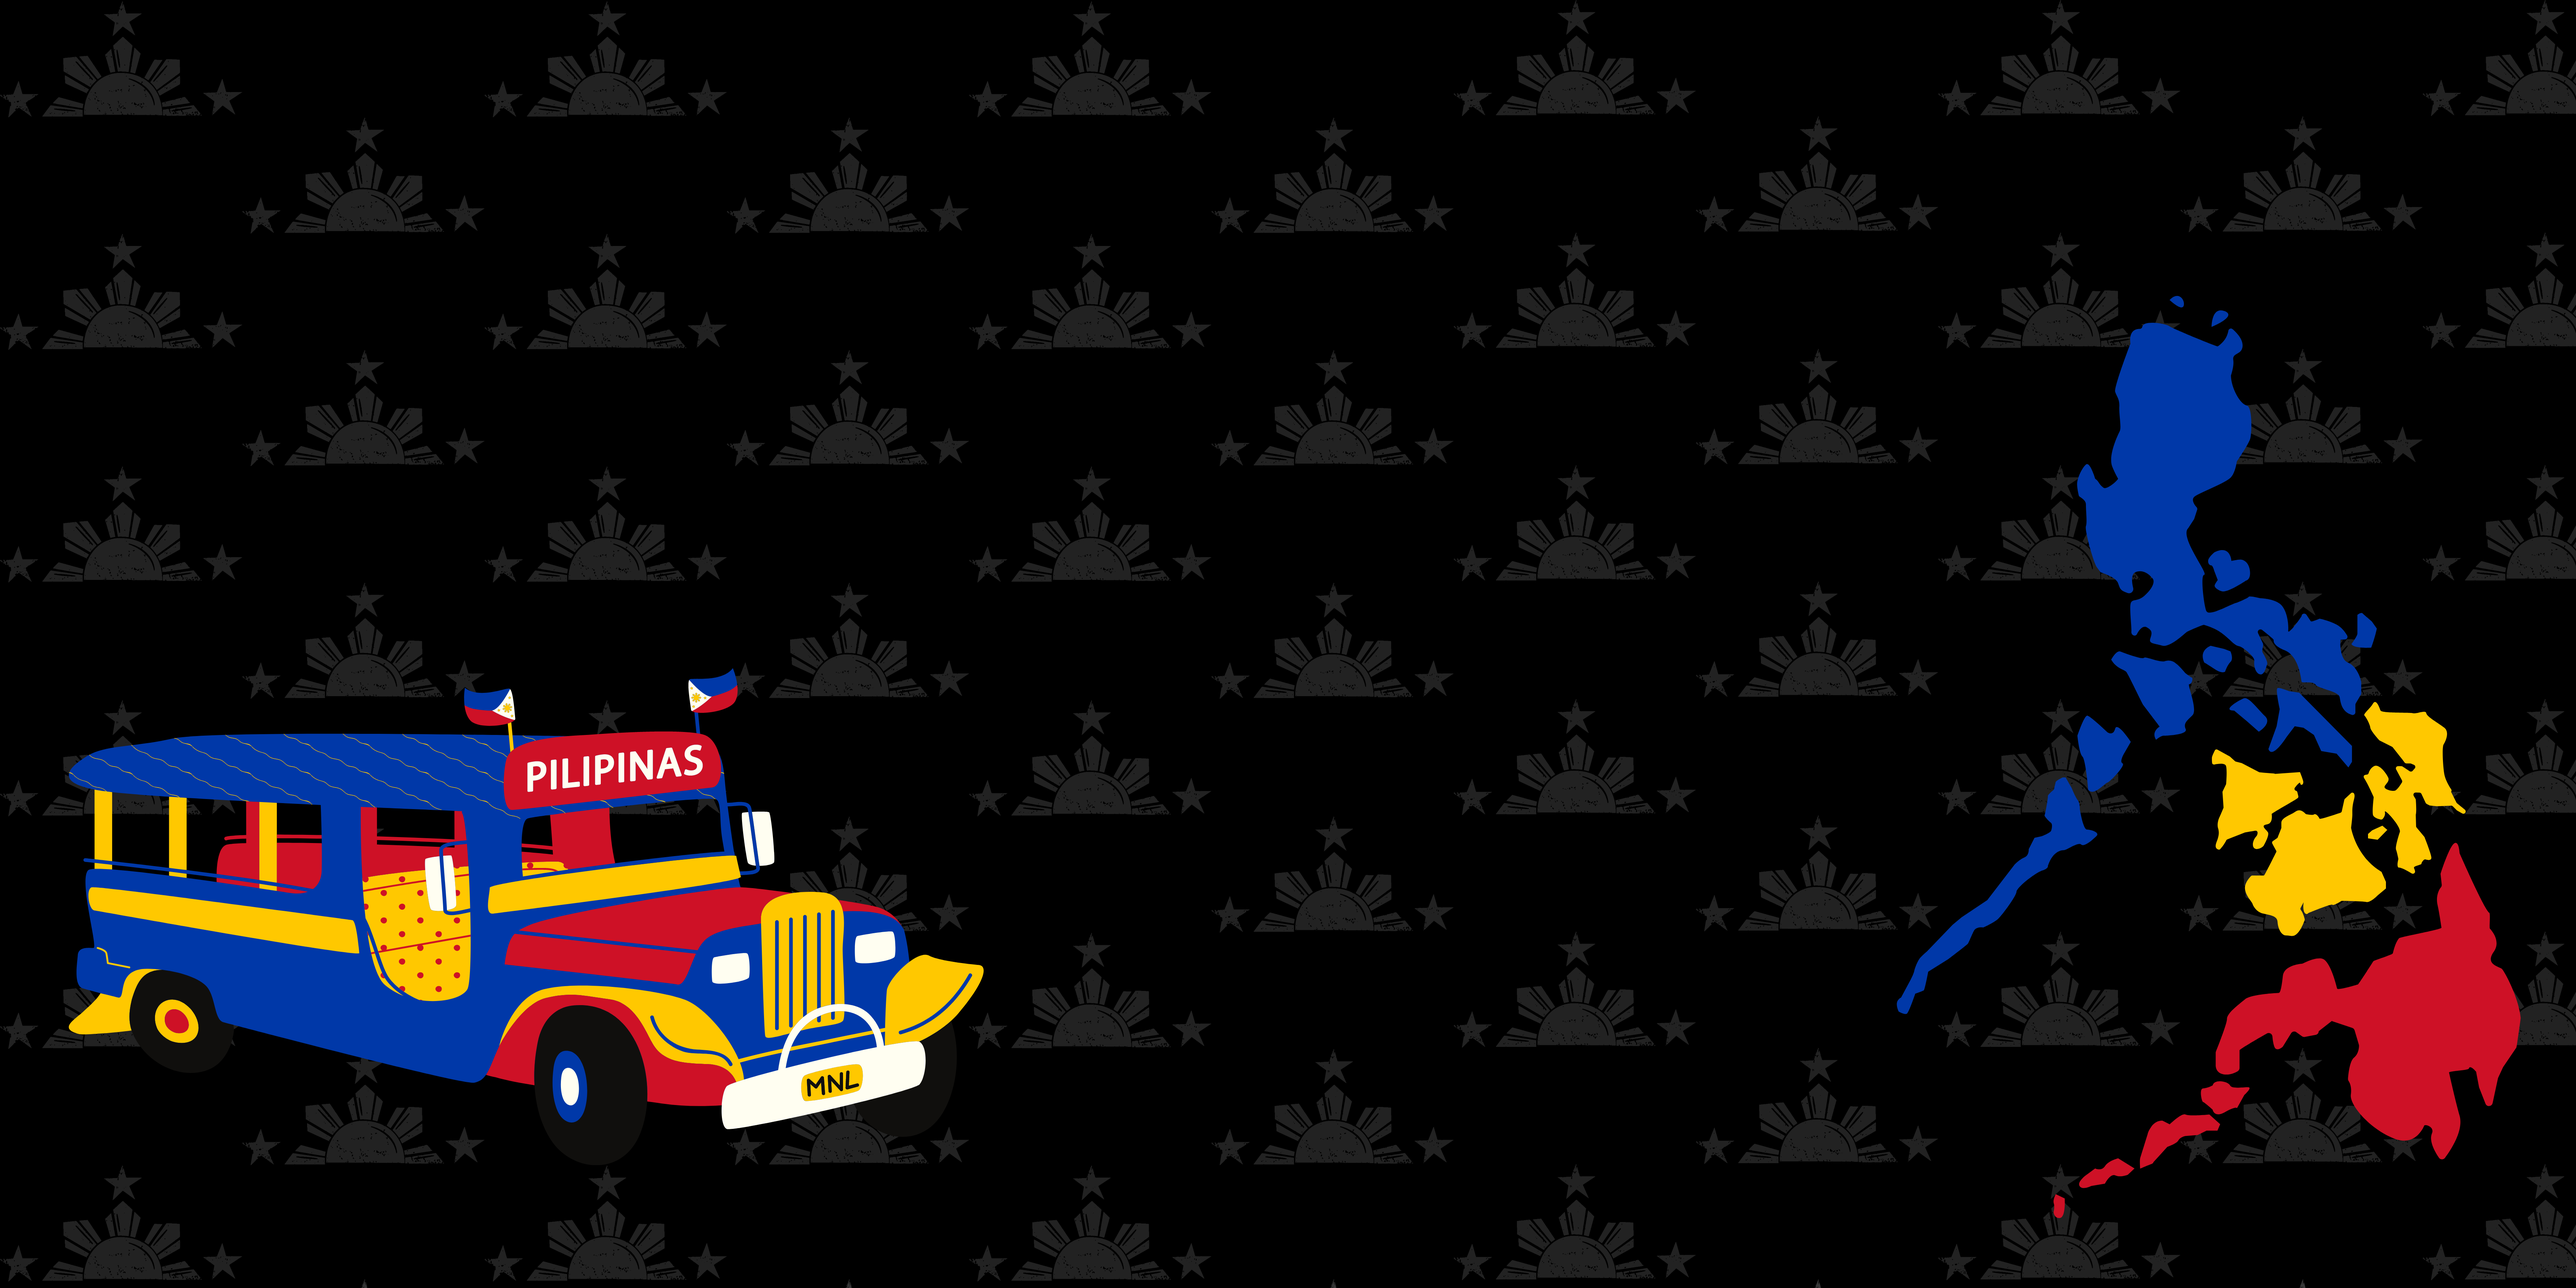
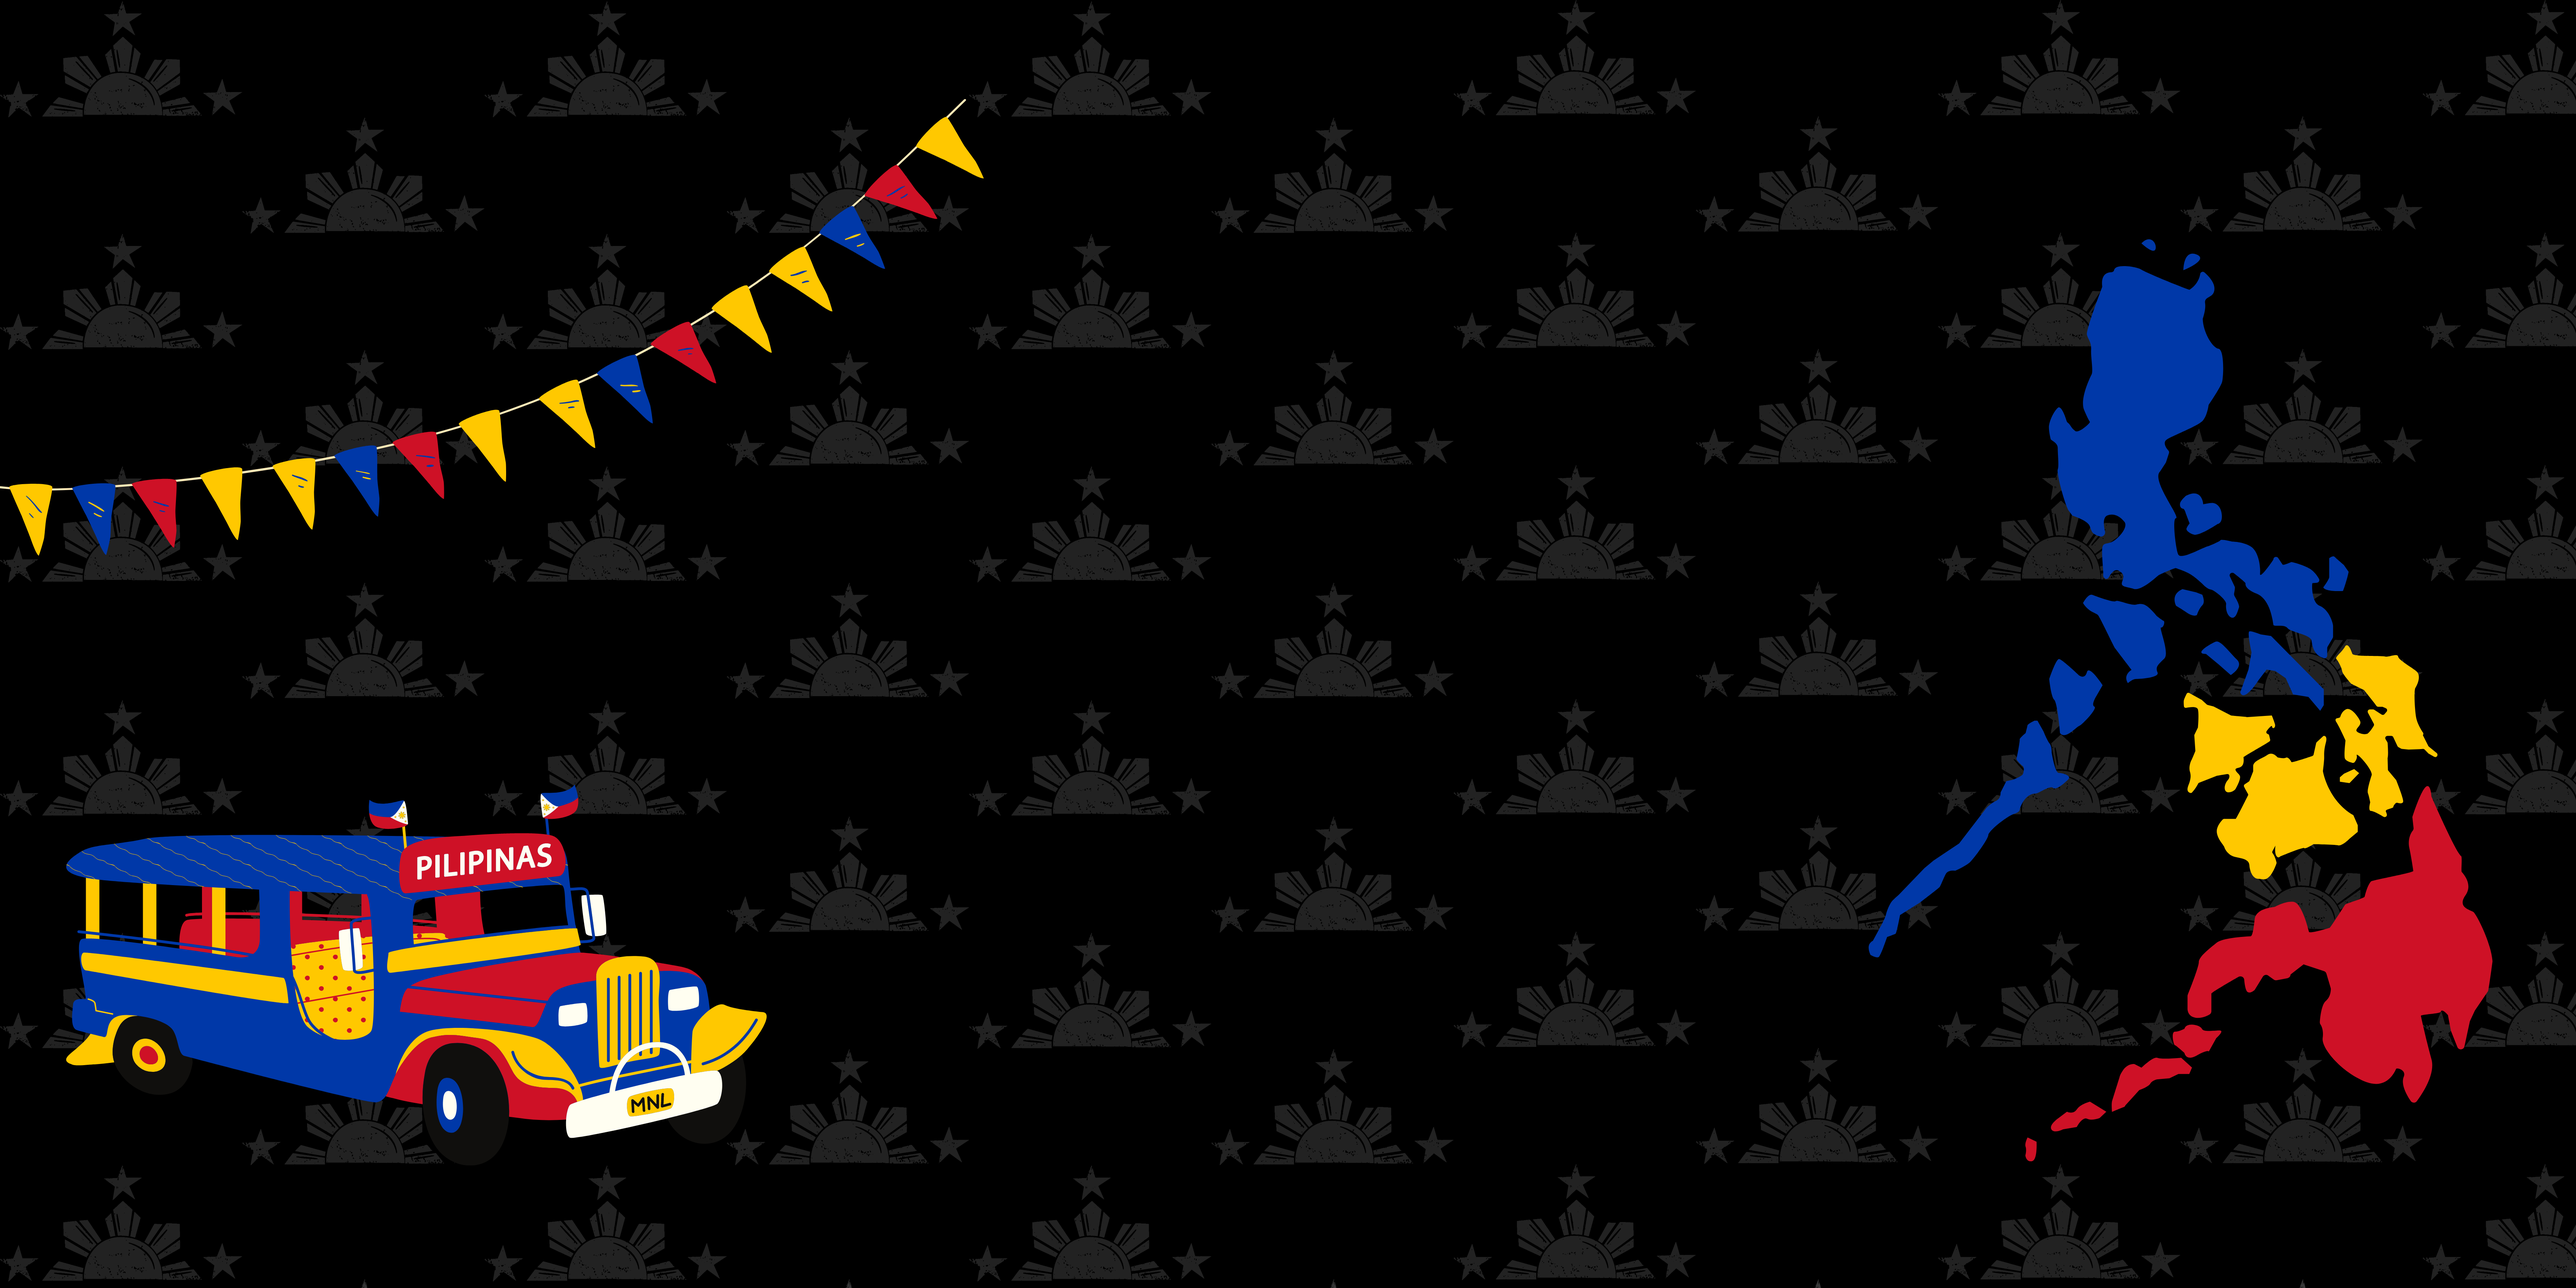
edit masthead bg

Changed region(s): [[0.0312, 0.5312, 0.4062, 0.9062], [0.7188, 0.1875, 1.0, 0.9375], [0.0, 0.0938, 0.375, 0.4375]]

diff --git a/css/styles.css b/css/styles.css
@@ -11410,7 +11410,7 @@ header.masthead {
   padding-bottom: 6rem;
   text-align: center;
   color: #fff;
-  background-image: url("../assets/img/gtfsa-bg1.png");
+  background-image: url("../assets/img/gtfsa-bg.png");
   background-repeat: no-repeat;
   background-attachment: scroll;
   background-position: center center;
